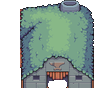
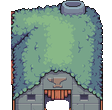
Maisons agrandies x1,3 (7x4), portes recalées
Claude-Session: https://claude.ai/code/session_01R6DULziKfSGZcEEcyC3Cch

diff --git a/Outils/generer_village.py b/Outils/generer_village.py
@@ -20,6 +20,13 @@ RACINE = os.path.join(os.path.dirname(__file__), "..")
 def vide(): return [['.'] * W for _ in range(H)]
 def put(g, c, *pts):
     for (x, y) in pts: g[y][x] = c
+def maison(g, c, x, y):
+    """Une maison 7x4 (sprite agrandi x1,3). On donne l'ANCIENNE position (coin haut-gauche d'une maison 5x4) : la nouvelle est décalée de (-1, +1),
+    donc la porte est au même x et UNE rangée plus bas (x+2, y+4). La caserne/le temple (K, 7x4) ne se décale que d'une rangée : voir `grande`."""
+    put(g, c, (x - 1, y + 1))
+def grande(g, x, y):
+    """La grande maison K (7x4) : porte en (x+3, y+4) ; on donne le x du coin et l'ANCIENNE rangée y."""
+    put(g, 'K', (x, y + 1))
 def chemin(g, x0, x1, y0, y1):
     for y in range(y0, y1 + 1):
         for x in range(x0, x1 + 1): g[y][x] = ':'
@@ -36,7 +43,7 @@ chemin(place, 19, 24, 6, 8)                 # vers l'est
 for y in range(H):                          # la place : un grand ovale de terre autour de la statue
     for x in range(W):
         if ((x - 12) / 7.6) ** 2 + ((y - 7) / 3.7) ** 2 <= 1.0: place[y][x] = ':'
-chemin(place, 4, 5, 5, 5); chemin(place, 19, 20, 5, 5)   # devant les portes des maisons
+chemin(place, 4, 5, 6, 6); chemin(place, 19, 20, 6, 6)   # devant les portes des maisons
 # Bordure d'arbres en haut et en bas, ouverture au nord (colonnes 10-14) : faite plus bas par bordure() (définie après)
 # Côtés : arbres, ouvertures ouest/est (rangées 6-8)
 for (x, y) in [(0, 2), (0, 4), (0, 9), (23, 2), (23, 4), (23, 9)]:
@@ -44,7 +51,7 @@ for (x, y) in [(0, 2), (0, 4), (0, 9), (23, 2), (23, 4), (23, 9)]:
 put(place, 'b', (0, 11), (1, 11), (23, 11), (24, 11))
 # Sortie nord provisoirement fermée (l'écran voisin n'existe pas encore) ; ouest et est sont ouvertes
 # Maisons (portes en bas : colonnes 4 et 20)
-put(place, 'M', (3, 2)); put(place, 'T', (18, 2))   # maisons 5x4 : portes en (5,5) et (20,5)
+maison(place, 'M', 3, 2); maison(place, 'T', 18, 2)   # maisons 7x4 : portes en (5,6) et (20,6)
 # Statue du coq au centre, bannières de part et d'autre
 put(place, 'Q', (11, 4)); put(place, 'j', (9, 5), (15, 5))   # girouette 3x4 au centre
 # Marché (en bas à gauche) et puits (en bas à droite)
@@ -57,7 +64,7 @@ put(place, 'w', (9, 2), (16, 2), (2, 10), (3, 11), (15, 11), (11, 11), (22, 10),
 # Animaux : 3 poules (c blanche, h rousse) qui picorent sur la place, un chat qui dort devant la maison, un chien
 animaux_place = ['c 9 9', 'c 15 10', 'h 14 4', 'k 6 5', 'd 17 8']
 
-TAILLES_MAISONS = {'M': (5, 4), 'N': (5, 4), 'T': (5, 4), 'R': (5, 4), 'S': (5, 4), 'L': (5, 4), 'K': (7, 4)}
+TAILLES_MAISONS = {'M': (7, 4), 'N': (7, 4), 'T': (7, 4), 'R': (7, 4), 'S': (7, 4), 'L': (7, 4), 'K': (7, 4)}
 
 def degager_maisons(g):
     """Retire du plan tout décor (fleurs, tonneaux...) posé SOUS une maison."""
@@ -89,9 +96,9 @@ bordure(place, trou=(10, 14))   # (la place est construite plus haut ; sa forêt
 #     Entrée par l'est (la place). L'ouest mène à la ferme (pas encore construite) : fermé par des buissons.
 ouest = vide()
 chemin(ouest, 0, 24, 6, 8)
-chemin(ouest, 4, 5, 5, 5); chemin(ouest, 13, 14, 5, 5)       # devant les portes
+chemin(ouest, 4, 5, 6, 6); chemin(ouest, 13, 14, 6, 6)       # devant les portes
 bordure(ouest)
-put(ouest, 'M', (3, 2)); put(ouest, 'R', (12, 2))   # portes en (5,5) et (14,5)
+maison(ouest, 'M', 3, 2); maison(ouest, 'R', 12, 2)   # portes en (5,6) et (14,6)
 for (x, y) in [(0, 2), (0, 4), (21, 2), (23, 4), (0, 10), (22, 10)]:
     put(ouest, 'A' if x % 2 == 0 else 'a', (x, y))
 put(ouest, 'P', (8, 2), (18, 3))
@@ -101,7 +108,7 @@ put(ouest, 'f', (2, 6 - 1), (7, 4), (19, 5), (3, 11)); put(ouest, 'g', (8, 5), (
 put(ouest, 'w', (2, 5), (11, 4), (18, 5), (4, 10), (21, 12))
 pnjs_ouest = [
     "Woman 10 9 haut | Colette | [fragment_gauche] Tu as rapporté l'aile ?! Vue du ciel, elle a la forme d'une plume géante, dit-on. // Moi, je savais bien que tu réussirais. ## [plume2] Il paraît que tu as allumé des braseros dans le noir ? Tu n'as pas peur de te brûler les moustaches ! ## Oh, tu es la nouvelle recrue ! Tout le village parle de ton épreuve d'adoubement. // On raconte que le donjon sous le temple a la forme d'un grand coq. // Un coq dans un donjon... Moi, je préfère ceux de ma basse-cour !",
-    "OldMan 8 6 droite | Vieux Gaspard | [fragment_gauche] Une aile entière... Ton père n'a jamais dépassé la quatrième plume. // Il serait fier. Moi aussi, petite. ## [plume3] Tu as réveillé le chant du coq, alors ? // Les cloches ne mentent jamais : écoute bien avant de frapper. ## Le coq chante chaque aube depuis mille ans. // S'il se taisait un jour, le royaume tremblerait. // Ton père tenait la lance avant toi. Garde-la bien, petite.",
+    "OldMan 9 7 droite | Vieux Gaspard | [fragment_gauche] Une aile entière... Ton père n'a jamais dépassé la quatrième plume. // Il serait fier. Moi aussi, petite. ## [plume3] Tu as réveillé le chant du coq, alors ? // Les cloches ne mentent jamais : écoute bien avant de frapper. ## Le coq chante chaque aube depuis mille ans. // S'il se taisait un jour, le royaume tremblerait. // Ton père tenait la lance avant toi. Garde-la bien, petite.",
     "Boy 18 5 gauche | Tom | [plume4] On dit que des statues de pierre surveillent la quatrième plume ! // Moi, je me serais caché derrière un pilier. Et toi ? ## Tu as une vraie lance de la garde ! Tu me la prêtes ? // ... Non ? Tant pis. // Un conseil : n'embête pas les poules. Elles se vengent.",
 ]
 animaux_ouest = ['c 6 10', 'h 20 9', 'c 15 12']
@@ -110,9 +117,9 @@ animaux_ouest = ['c 6 10', 'h 20 9', 'c 15 12']
 #     Entrée par l'ouest (la place). L'est mène à la maison du héros (pas encore construite) : fermé.
 est = vide()
 chemin(est, 0, 24, 6, 8)
-chemin(est, 11, 13, 5, 5)                                     # devant la porte de la caserne
+chemin(est, 11, 13, 6, 6)                                     # devant la porte de la caserne
 bordure(est)
-put(est, 'K', (10, 2)); put(est, 'j', (8, 3), (18, 3))        # caserne 7x4 : porte en (13,5)
+grande(est, 10, 2); put(est, 'j', (8, 3), (18, 3))        # caserne 7x4 : porte en (13,6)
 put(est, 'o', (6, 3), (6, 4), (18, 3), (19, 4))
 for (x, y) in [(0, 2), (0, 4), (2, 9), (22, 2), (22, 9), (20, 11)]:
     put(est, 'A' if y % 4 == 0 else 'a', (x, y))
@@ -126,7 +133,7 @@ pnjs_est = [
     "Villager 6 9 haut | Marchande Rosine | Des pommes ! Des pommes de la ferme ! // Les gardes sont mes meilleurs clients... et les pires payeurs.",
 ]
 animaux_est = ['d 20 7', 'c 12 11']
-passages_est = ["13 5 InterieurCaserne 12 9"]   # porte de la caserne (maison beige en (10,2)) ; l'intérieur est en bas de la carte
+passages_est = ["13 6 InterieurCaserne 12 9"]   # porte de la caserne (maison beige en (10,2)) ; l'intérieur est en bas de la carte
 
 # --- FERME (0,2) : tout à l'ouest. Enclos à poules (clôtures `e`/`z`, cases `k` = intérieur, entrée au sud en (5..6, 8)),
 #     grange fermée, la fermière lance la CHASSE AUX POULES (cases `s` = où apparaissent les 6 poules).
@@ -141,21 +148,21 @@ for y in range(4, 8): put(ferme, 'z', (3, y), (10, y))          # côtés
 for y in range(4, 8):
     for x in range(4, 10): put(ferme, 'k', (x, y))
 put(ferme, 'n', (4, 9))                                        # panneau de l'enclos
-put(ferme, 'L', (17, 2))                                       # grange : porte en (19,5)
-put(ferme, 's', (13, 3), (15, 5), (14, 10), (18, 10), (21, 10), (22, 4))
+maison(ferme, 'L', 17, 2)                                      # grange : porte en (19,6)
+put(ferme, 's', (13, 3), (15, 5), (14, 10), (18, 10), (21, 10), (23, 7))
 for (x, y) in [(0, 2), (0, 4), (0, 10), (12, 11), (23, 2)]:
     put(ferme, 'A' if (x + y) % 4 == 0 else 'a', (x, y))
 put(ferme, 'x', (12, 4), (13, 4)); put(ferme, 'o', (22, 6), (21, 11))
 put(ferme, 'f', (11, 2), (16, 9), (3, 10), (8, 10)); put(ferme, 'g', (12, 3), (20, 9), (2, 7)); put(ferme, 'w', (14, 9), (2, 3), (10, 10), (22, 9))
 pnjs_ferme = ["Villager5 12 5 bas | Fermière Jeanne | Oh, par tous les coqs ! Mes poules se sont échappées de l'enclos ! // Tu peux me les ramener ? Approche-toi d'une poule et appuie sur Espace pour la prendre dans tes bras. // Puis appuie encore sur Espace pour la lancer : par-dessus la clôture, ou par l'entrée au sud ! // 5 poules, 60 secondes. Prête ? C'est parti ! | poules"]
-passages_ferme = ["19 5 ! La grange est fermée à clé."]
+passages_ferme = ["19 6 ! La grange est fermée à clé."]
 
 # --- MAISON DU HÉROS (4,2) : tout à l'est du village, au bout du chemin. Le jeu commence DANS la maison.
 heros = vide()
 chemin(heros, 0, 14, 6, 8)
 bordure(heros)
 put(heros, 'b', (24, 6), (24, 7), (24, 8))                    # l'est : falaise plus tard
-put(heros, 'N', (11, 2))                                      # la maison bleue : porte en (13,5)
+maison(heros, 'N', 11, 2)                                     # la maison bleue : porte en (13,6)
 put(heros, 'j', (9, 3), (16, 3))
 for (x, y) in [(0, 2), (0, 4), (0, 10), (22, 3), (22, 9), (19, 11), (3, 11)]:
     put(heros, 'A' if (x + y) % 4 == 0 else 'a', (x, y))
@@ -164,7 +171,7 @@ put(heros, 'o', (9, 4), (14, 4), (16, 9))
 put(heros, 'f', (8, 3), (15, 5), (10, 10), (18, 9)); put(heros, 'g', (9, 5), (14, 5), (6, 10), (20, 9))
 put(heros, 'w', (13, 3), (8, 11), (17, 6), (4, 9), (21, 7))
 animaux_heros = ['c 15 7', 'k 10 6']
-passages_heros = ["13 5 InterieurHeros 12 9"]
+passages_heros = ["13 6 InterieurHeros 12 9"]
 
 def interieur(porte, meubles, haut, gauche=6, droite=17, bas=10):
     """Une pièce rectangulaire : mur du haut = 2 rangées (pans de 2 cases : lettres de `haut`), côtés et bas = murs pleins."""
@@ -186,8 +193,8 @@ int_caserne = interieur(12, [('G', 7, 5), ('G', 10, 5), ('H', 13, 5), ('J', 15, 
 pnjs_int_caserne = ["Villager3 14 7 gauche | Soldat Gilles | Ici dorment les recrues de la garde royale. // Ne touche pas aux lits, on dit qu'ils sont habités... par des puces."]
 
 FERMEE = "La porte est fermée à clé."
-ferme_place = ["5 5 ! " + FERMEE, "20 5 ! " + FERMEE]
-ferme_ouest = ["5 5 ! " + FERMEE, "14 5 InterieurStand 12 9"]   # la maison rouge est le STAND DE TIR
+ferme_place = ["5 6 ! " + FERMEE, "20 6 ! " + FERMEE]
+ferme_ouest = ["5 6 ! " + FERMEE, "14 6 InterieurStand 12 9"]   # la maison rouge est le STAND DE TIR
 
 # STAND DE TIR (maison rouge du village ouest) : les pots du jeu apparaissent sur les cases `c` (rangée du fond)
 int_stand = interieur(12, [('t', 9, 7), ('o', 7, 5), ('q', 16, 5), ('p', 7, 9), ('U', 8, 8)], ['w', 'y', 'x', 'y', 'w'])
@@ -215,26 +222,26 @@ parvis = vide()
 chemin(parvis, 11, 13, 6, 13)                                  # vient du sud
 chemin(parvis, 0, 13, 6, 8)                                    # vers l'ouest : temple de l'aile gauche
 chemin(parvis, 12, 12, 5, 5)                                   # devant la porte du CORPS
-put(parvis, 'K', (9, 2))                                       # le CORPS du donjon : grand bâtiment scellé (porte en (12,5))
+grande(parvis, 9, 2)                                       # le CORPS du donjon : grand bâtiment scellé (porte en (12,5))
 put(parvis, 'j', (7, 3), (17, 3)); put(parvis, 'o', (6, 4), (18, 4))
 bordure(parvis, trou=(11, 13))
 for (x, y) in [(0, 2), (0, 4), (0, 10), (22, 2), (22, 4), (22, 9), (20, 11)]:
     put(parvis, 'A' if (x + y) % 4 == 0 else 'a', (x, y))
 put(parvis, 'b', (24, 6), (24, 7), (24, 8))                    # l'est : le temple de l'aile droite (plus tard)
 put(parvis, 'P', (20, 2), (3, 2)); put(parvis, 'f', (8, 9), (16, 9)); put(parvis, 'g', (10, 5), (14, 5)); put(parvis, 'w', (6, 10), (19, 10))
-passages_parvis = ["12 5 ! Les grandes portes du corps du donjon sont scellées. Il faut d'abord rapporter les deux ailes du blason."]
+passages_parvis = ["12 6 ! Les grandes portes du corps du donjon sont scellées. Il faut d'abord rapporter les deux ailes du blason."]
 
 temple_g = vide()
 chemin(temple_g, 11, 24, 6, 8)                                 # vient de l'est (le parvis)
 chemin(temple_g, 12, 12, 5, 5)                                 # devant la porte du temple
-put(temple_g, 'K', (9, 2))                                     # temple de l'aile gauche : porte en (12,5) -> donjon
+grande(temple_g, 9, 2)                                     # temple de l'aile gauche : porte en (12,5) -> donjon
 put(temple_g, 'j', (7, 3), (17, 3)); put(temple_g, 'o', (6, 4), (18, 4))
 bordure(temple_g)
 put(temple_g, 'b', (0, 6), (0, 7), (0, 8))                     # l'ouest : fermé
 for (x, y) in [(0, 2), (0, 4), (0, 10), (22, 2), (22, 9), (3, 9)]:
     put(temple_g, 'A' if (x + y) % 4 == 0 else 'a', (x, y))
 put(temple_g, 'P', (20, 2), (3, 2)); put(temple_g, 'f', (8, 9), (16, 9)); put(temple_g, 'g', (10, 5), (14, 5)); put(temple_g, 'w', (6, 10), (19, 10))
-passages_temple_g = ["12 5 @donjon:Vestibule 12 10 La grande porte du donjon se referme derrière toi... Il faudra finir l'épreuve pour ressortir."]
+passages_temple_g = ["12 6 @donjon:Vestibule 12 10 La grande porte du donjon se referme derrière toi... Il faudra finir l'épreuve pour ressortir."]
 
 ecrans = [
     ('Ferme', (0, 2), ferme, {'pnjs': pnjs_ferme, 'passages': passages_ferme, 'minijeu': 'poules'}),
@@ -248,10 +255,10 @@ ecrans = [
 ]
 # Intérieurs : en bas de la carte (rangée 5), dans une scène à part (Scenes/interieur.tscn)
 interieurs = [
-    ('InterieurHeros', (4, 5), int_heros, {'pnjs': pnjs_int_heros, 'passages': ["12 10 MaisonHeros 13 6", "14 6 $records"],
+    ('InterieurHeros', (4, 5), int_heros, {'pnjs': pnjs_int_heros, 'passages': ["12 10 MaisonHeros 13 7", "14 6 $records"],
         'indice': "Tu te réveilles chez toi. Aujourd'hui, c'est ton adoubement ! Parle à Maman, puis rejoins le capitaine à la caserne (à l'ouest)."}),
-    ('InterieurStand', (1, 5), int_stand, {'pnjs': pnjs_int_stand, 'passages': ["12 10 VillageOuest 14 6"], 'minijeu': 'tir'}),
-    ('InterieurCaserne', (3, 5), int_caserne, {'pnjs': pnjs_int_caserne, 'passages': ["12 10 VillageEst 13 6"], 'style': 'caserne'}),
+    ('InterieurStand', (1, 5), int_stand, {'pnjs': pnjs_int_stand, 'passages': ["12 10 VillageOuest 14 7"], 'minijeu': 'tir'}),
+    ('InterieurCaserne', (3, 5), int_caserne, {'pnjs': pnjs_int_caserne, 'passages': ["12 10 VillageEst 13 7"], 'style': 'caserne'}),
 ]
 depart = (4 * 400 + 9 * 16 + 8, 5 * 224 + 6 * 16 + 3)   # nouvelle partie : dans la maison du héros, à côté du lit
 

diff --git a/Outils/traiter_pack_aesthetic.py b/Outils/traiter_pack_aesthetic.py
@@ -114,25 +114,30 @@ def objets():
 # ---------------------------------------------------------------- MAISONS (emprise 5x4 = 80 px de large, porte en colonne 2 ; caserne 7x4 = 112 px, porte colonne 3)
 P1 = "Pack 1 expansion"
 
+AGRANDIR = 1.3   # maisons plus grandes (la porte doit être plus haute que le héros : 24 px)
+
+def sur_toile(im, largeur, x):
+    toile = Image.new("RGBA", (largeur, im.height), (0, 0, 0, 0))
+    toile.alpha_composite(im, (x, 0))
+    return toile
+
 def maisons():
+    """Toutes les maisons font 7 cases de large (112 px), porte en colonne 3 ; hauteur du sprite = environ 6,5 cases (le bas est calé sur 4 rangées de collision)."""
     out = {}
-    bois = decouper(P1, (215, 0, 335, 122), 80.0 / 120.0)
-    # variantes de couleur de toit : orange (M), bleu (N), vert (T), rouge d'origine (R, L)
+    bois = decouper(P1, (215, 0, 335, 122), AGRANDIR * 80.0 / 120.0)   # 104 x 105
+    bois = sur_toile(bois, 112, (112 - bois.width) // 2)
+    # variantes de couleur de toit : orange (M), bleu (N), vert (T), rouge d'origine (R, L) ; le toit = les 60 premières lignes
     out["v_maison_rouge"] = bois
     out["v_maison_bois"] = bois
-    out["v_maison_orange"] = teinter(bois, 0.08, 1.0)
-    out["v_maison_bleue"] = teinter(bois, -0.42, 1.0)
-    out["v_maison_chaume"] = teinter(bois, -0.28, 1.0)
+    out["v_maison_orange"] = teinter(bois, 0.08, 1.0, 60)
+    out["v_maison_bleue"] = teinter(bois, -0.42, 1.0, 60)
+    out["v_maison_chaume"] = teinter(bois, -0.28, 1.0, 60)
     # maison de pierre (forge) : 'S'
-    pierre = decouper(P1, (0, 18, 84, 122), ECHELLE)
-    toile = Image.new("RGBA", (80, pierre.height), (0, 0, 0, 0))
-    toile.alpha_composite(pierre, ((80 - pierre.width) // 2, 0))
-    out["v_maison_pierre"] = toile
-    # caserne : la grande maison couverte de végétation, calée pour que sa porte tombe en colonne 3 (48 à 64 px)
-    grande = decouper(P1, (82, 0, 216, 160), 0.55)   # plus petite : elle doit tenir sous le bord haut de l'écran
-    toile = Image.new("RGBA", (112, grande.height), (0, 0, 0, 0))
-    toile.alpha_composite(grande, (20, 0))
-    out["v_maison_caserne"] = toile
+    pierre = decouper(P1, (0, 18, 84, 122), ECHELLE * AGRANDIR)
+    out["v_maison_pierre"] = sur_toile(pierre, 112, (112 - pierre.width) // 2)
+    # caserne / temple : la grande maison couverte de végétation (un peu moins agrandie : elle doit tenir sous le bord haut de l'écran), porte en colonne 3
+    grande = decouper(P1, (82, 0, 216, 160), 0.55 * 1.25)
+    out["v_maison_caserne"] = sur_toile(grande, 112, 11)
     for n, im in out.items():
         enregistrer(im, n)
     return out

diff --git a/CLAUDE.md b/CLAUDE.md
@@ -456,6 +456,10 @@
   (4) TAILLE DES PORTES : la porte des maisons (~19 px) est plus petite que le héros (24 px) -> pas crédible ; (5) « on a l'impression de rentrer dans le RIEN » en entrant dans un bâtiment (intérieur = écran noir séparé, aucune transition crédible : pas de porte qui s'ouvre, pas de bruit, intérieur sans rapport avec l'extérieur).
   Pistes : arche de pierre du pack Aesthetic (Grassland Tileset, cases (10..13,11..13)) + escalier sombre pour l'entrée du donjon ; maisons/portes à l'échelle du héros ; porte qui s'ouvre + bruit + héros qui monte d'une case ; intérieur apparaissant dans la continuité de la porte.
 
+- 2026-11-13 : **ÉTAPE 10d écrite (non testée dans Godot, aperçu PIL vérifié)** : MAISONS AGRANDIES x1,3 (porte ~29 px pour un héros de 24 px). Toutes les maisons font maintenant 7x4 cases de collision (sprite 112x106, porte colonne 3),
+  la caserne/temple `K` 7x4 (sprite 112x110). `generer_village.py` : helpers `maison(g, lettre, x_ancien, y_ancien)` (décale de (-1,+1)) et `grande(g, x, y)` ; TOUTES les portes sont une rangée plus bas (ex. (5,6) au lieu de (5,5)), arrivées dehors en rangée 7 ;
+  `world.gd` : retour du donjon en (12,7). `exterieur.gd` : emprise 7x4, PORTES_MAISONS colonne 3. Reste à faire : transition d'entrée crédible (porte qui s'ouvre + bruit), entrée du donjon refaite (arche), habitants style héros, aile droite.
+
 ## PROCHAINE ÉTAPE : Étape 8 = VILLAGE + CARTE EXTÉRIEURE
 - Tester 8e/8f/9a (démarrage maison, portes, sprites, stand de tir, ferme + poules). Sinon d'abord 7e (sauvegarde, HUD...) et 8d (dialogues).
 - Idées rendu : sol herbe/chemin Gemini, étal du marché, panneau lisible, bannière coq dans la caserne.
